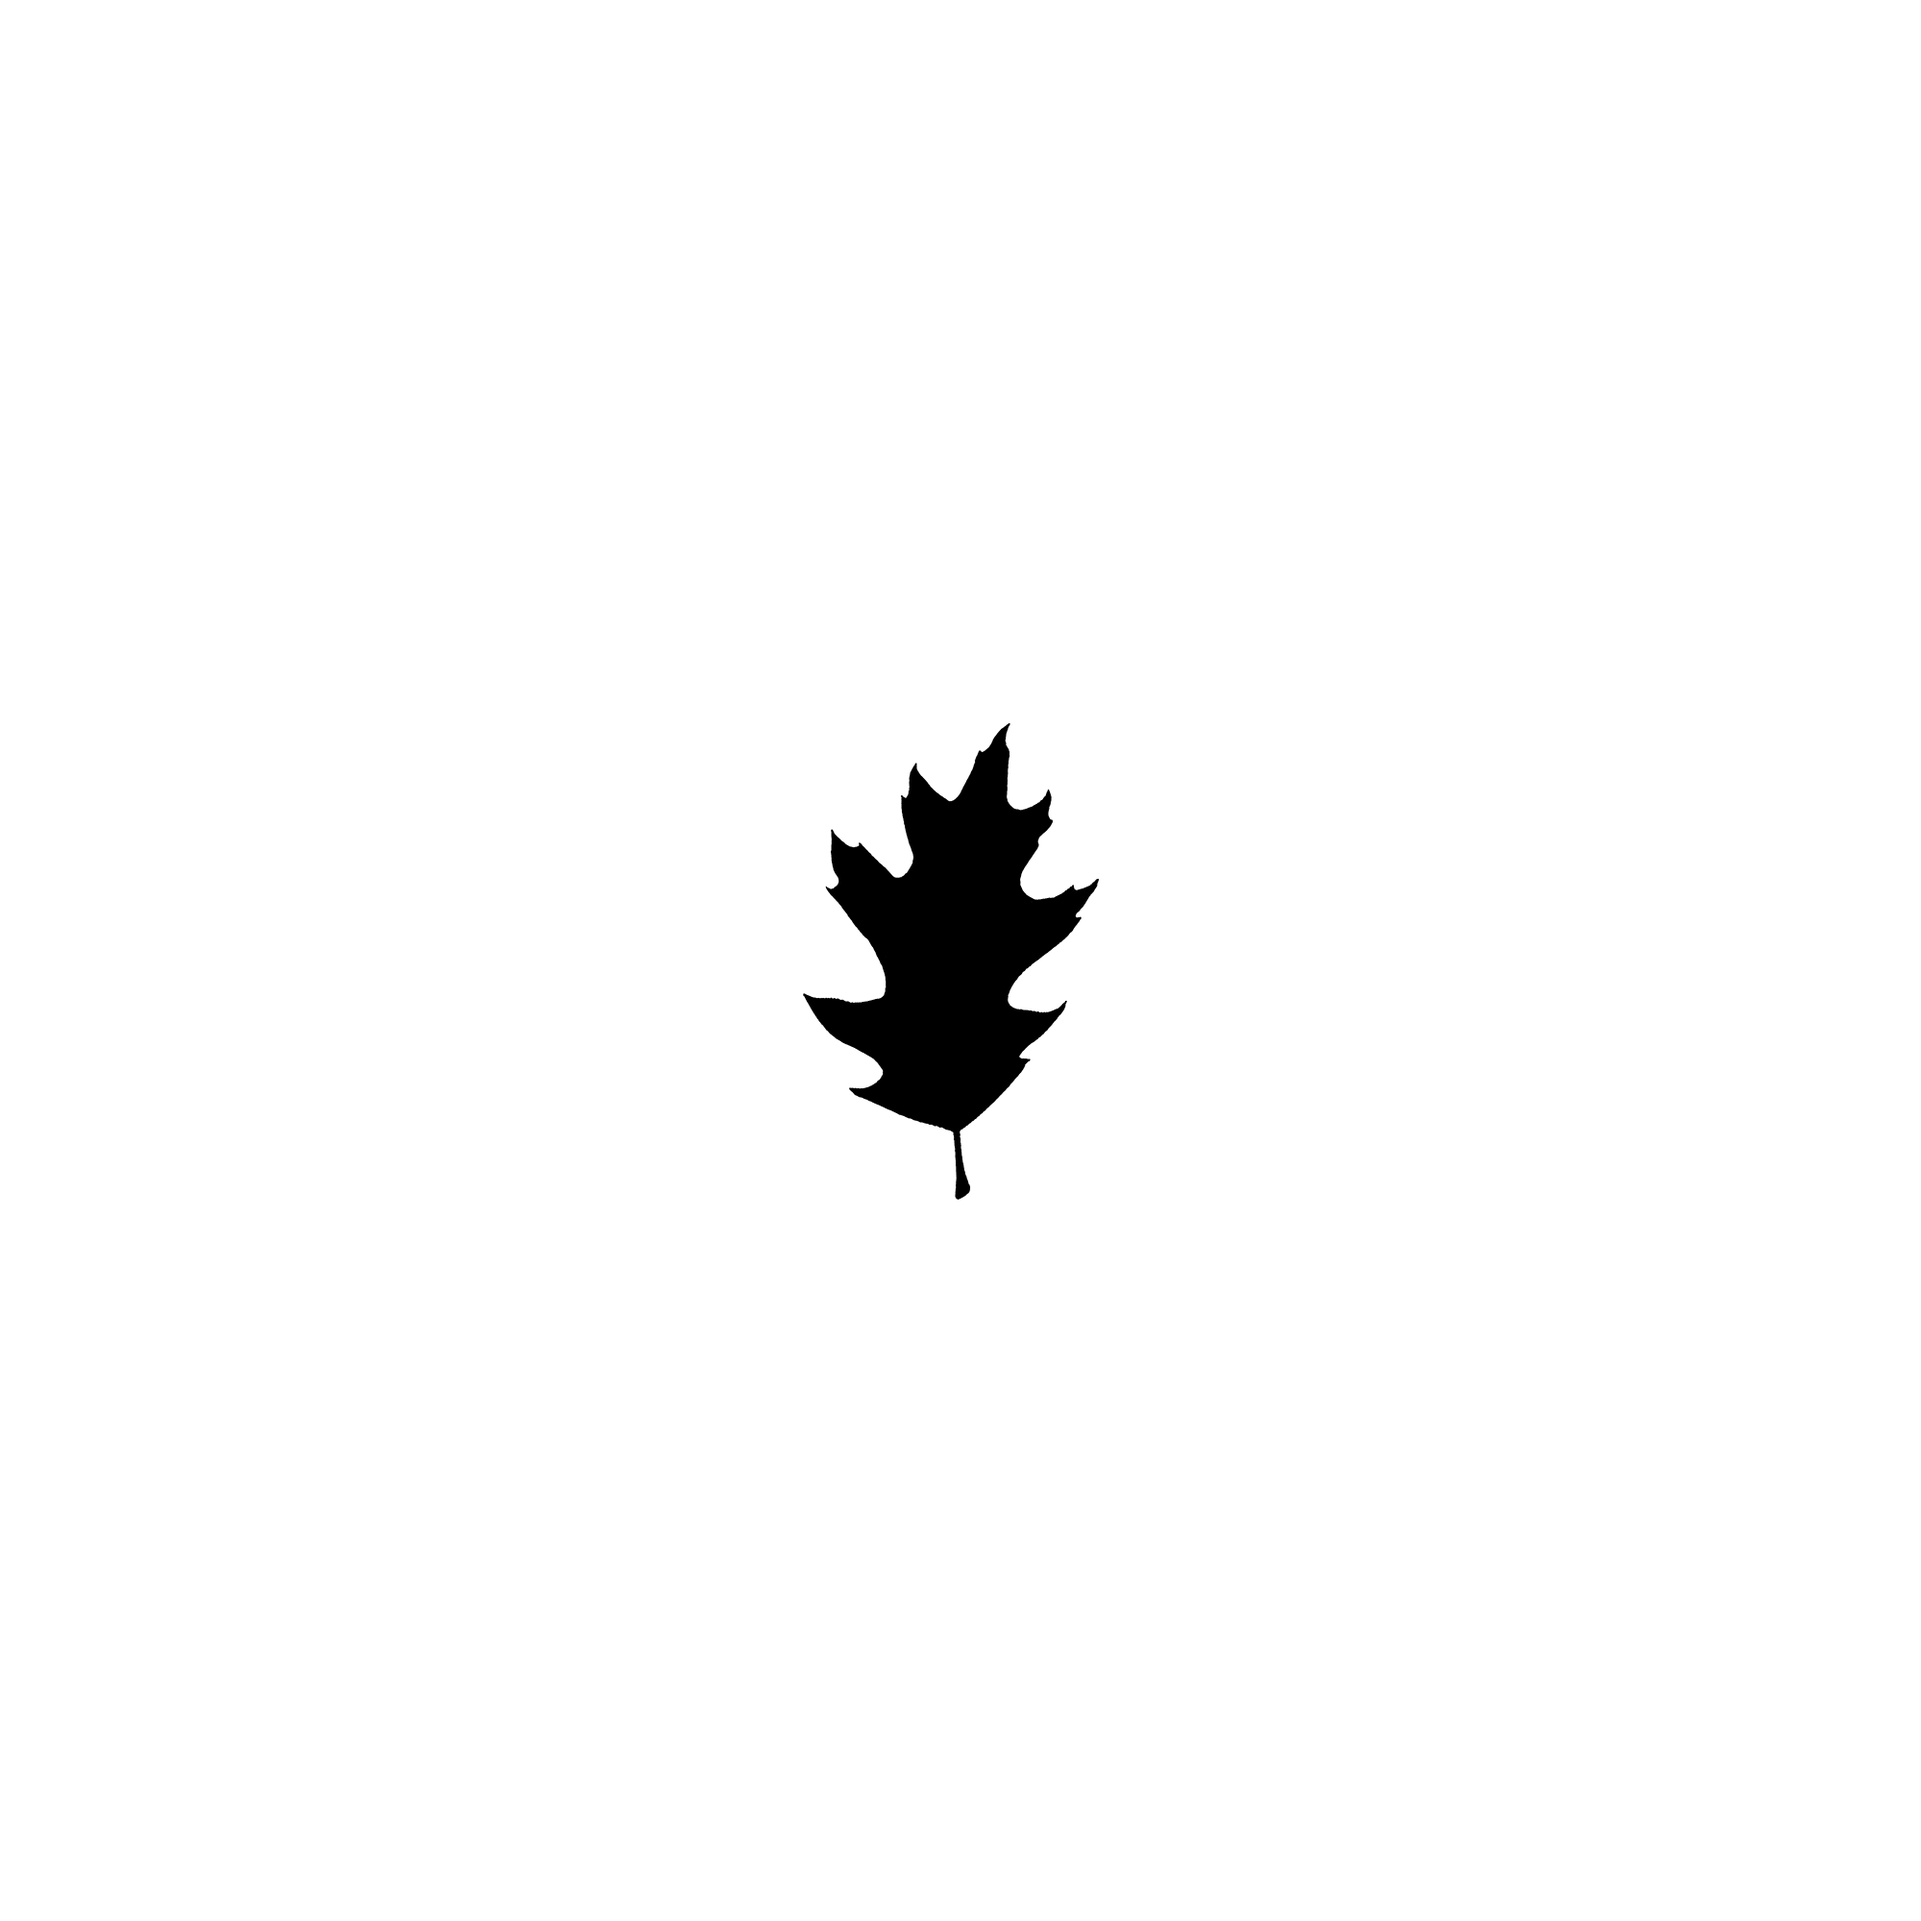
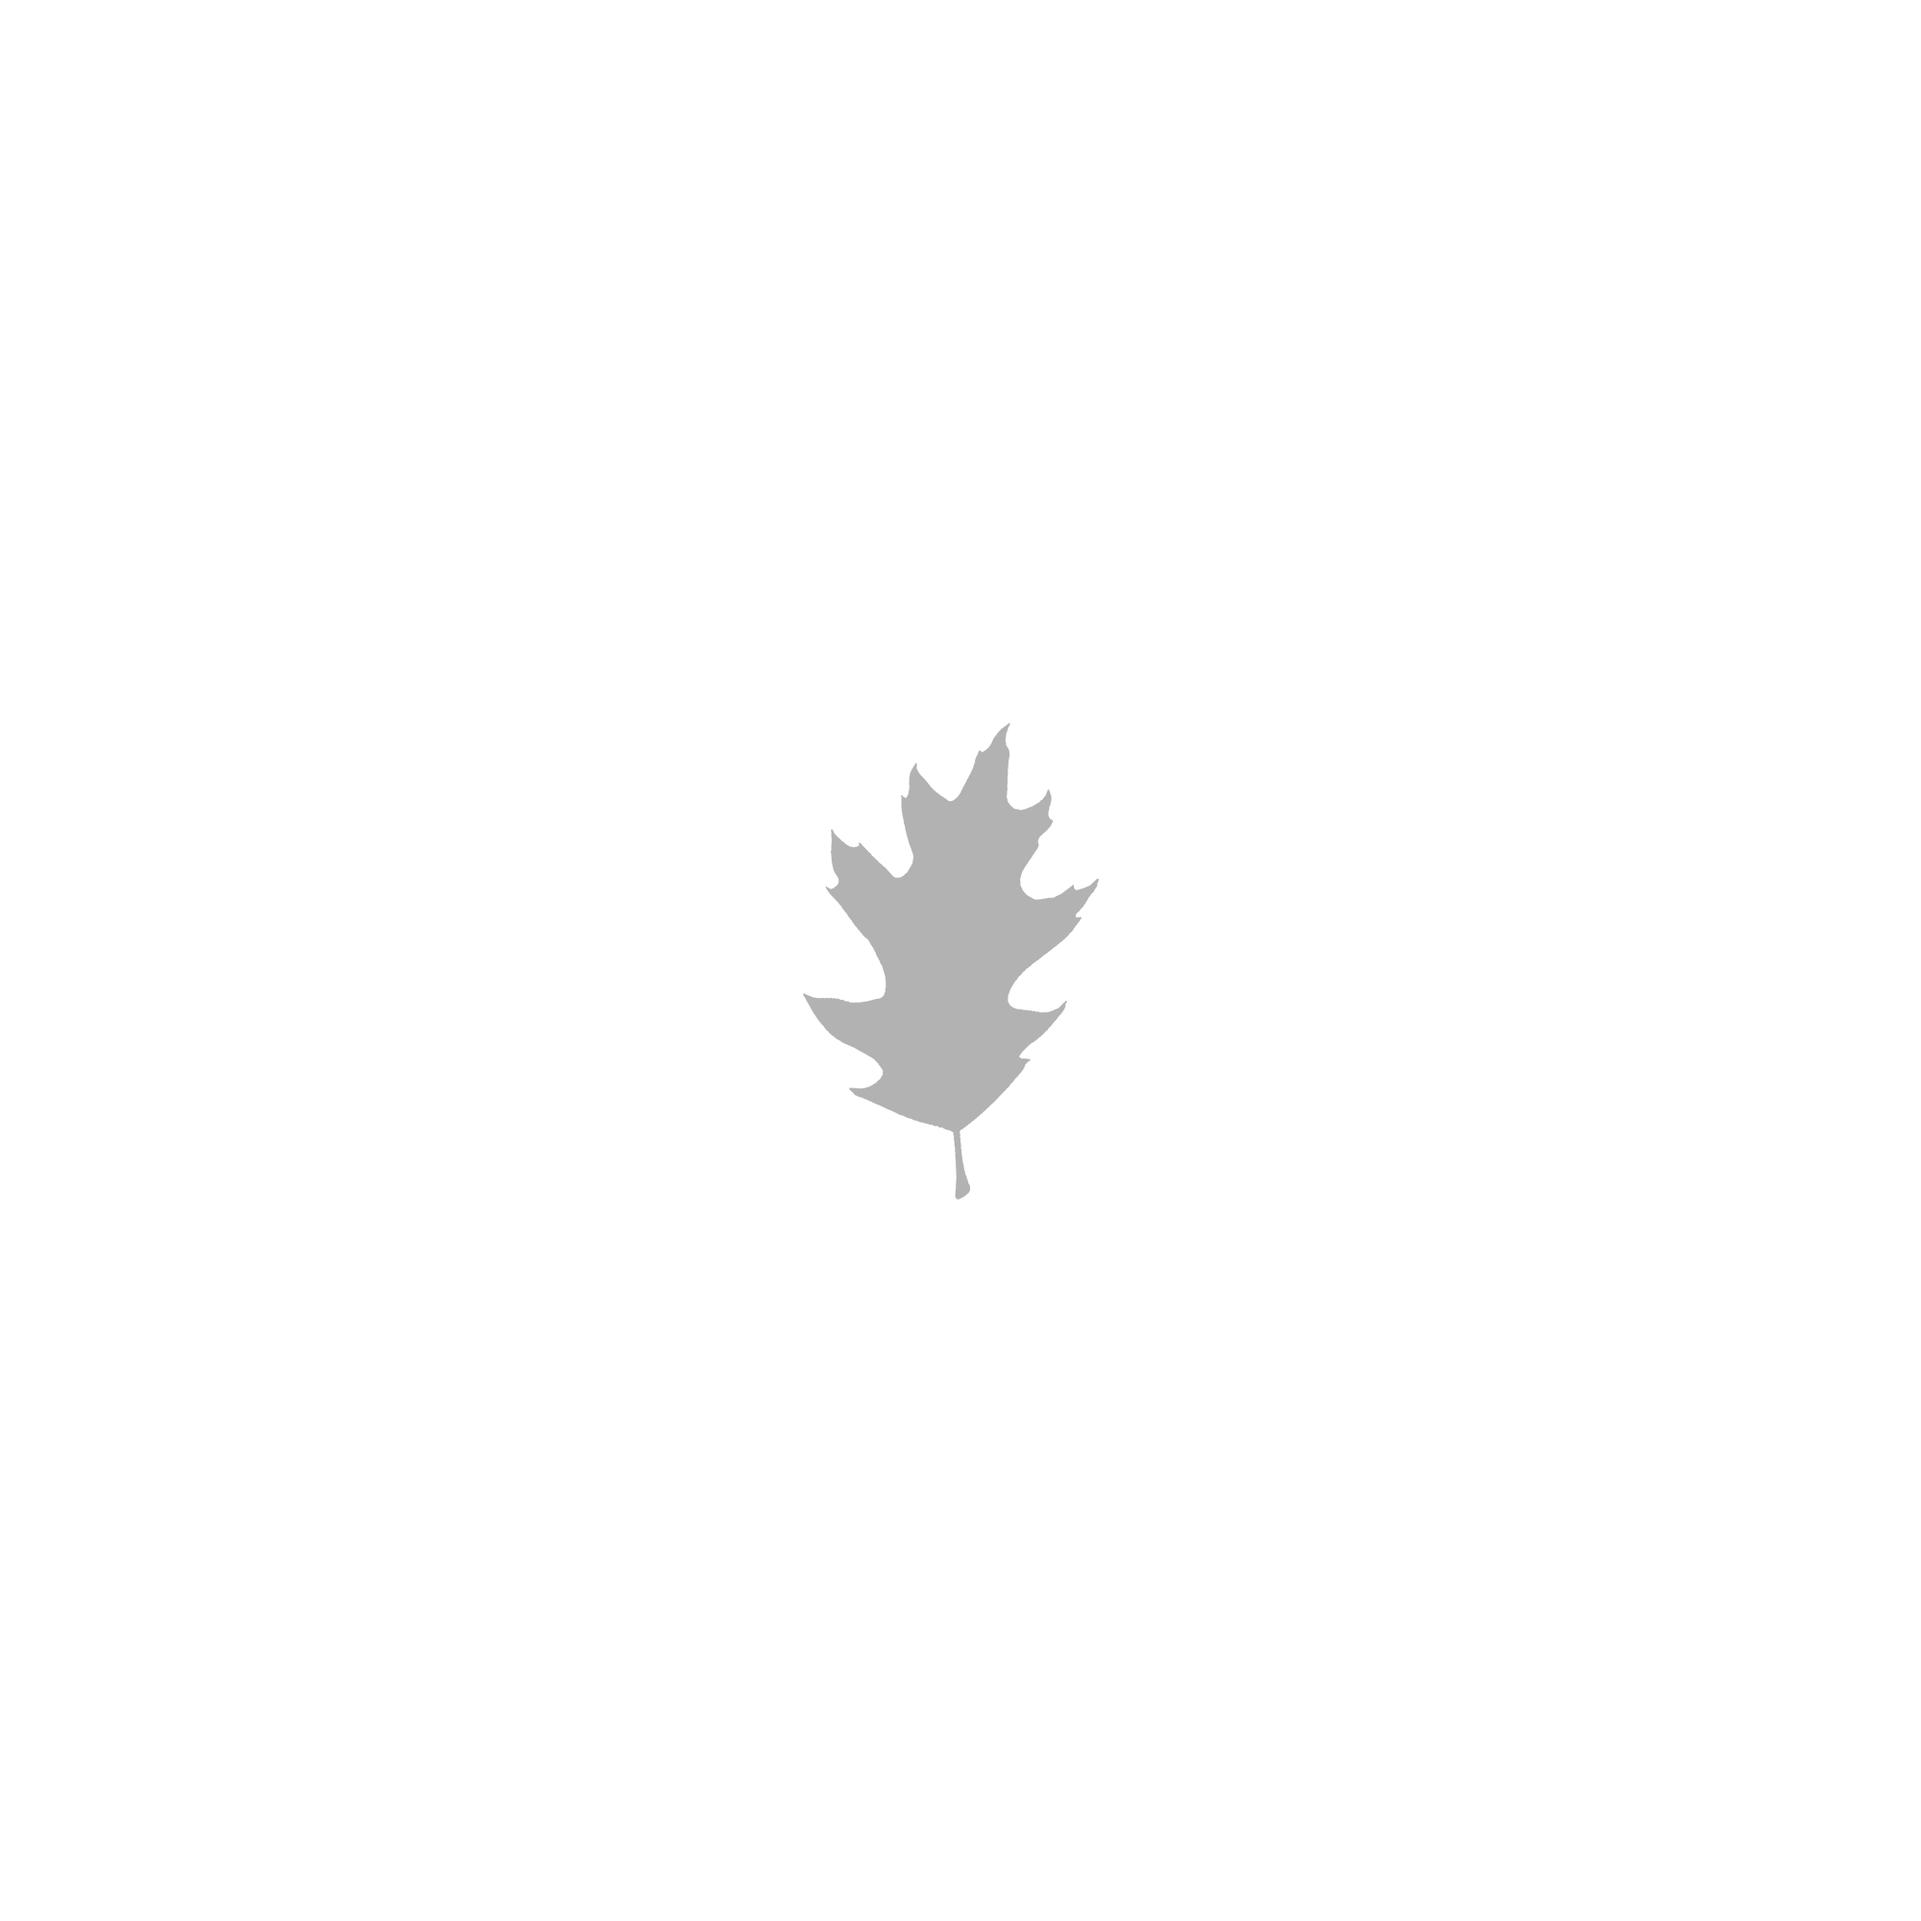
Optimise

Changed region(s): [[0.403, 0.372, 0.589, 0.62]]

diff --git a/rotationscape.js b/rotationscape.js
@@ -75,9 +75,6 @@ function dimensionCalc() {
   }
 }
 
-
-
-
 function mouseReleased() {
   drawLayer.stroke(0, 0, 0, 0);
   drawLayer.fill(0, 0, 0, 0);
@@ -94,47 +91,40 @@ function touchMoved() {
   } else if (drawState === 2) {
     wetDrawing(winMouseX, winMouseY);
   }
-
-if (sliderTouch === 1){
-   if (mouseX > (4 * hmax) && mouseX < (12 * hmax) && mouseY > (4 * hmax) && mouseY < height/2 - (4 * hmax)) {
-     makeSlider();
-     rotateLeaf(mouseX, mouseY);
-   }
-
-   if (mouseX > (4 * hmax) && mouseX < (13 * hmax) && mouseY > (height/2)+(4 * hmax) && mouseY < height - (4 * hmax)) {
-     makeScaler();
-     scalar = mouseY/height;
-
-     leafLayer.push();
-     leafLayer.clear();
-     leafLayer.imageMode(CENTER);
-     leafLayer.translate(width / 2, height / 2);
-       leafLayer.rotate(rot);
-     leafLayer.translate(0, -height / 6);
-     leafLayer.tint(255, 25);
-     leafLayer.image(leaf[leafSelector], 0, 0, (shortEdge / 0.5) * scalar, (shortEdge / .5) * scalar);
-     leafLayer.pop();
-     strokeLayer.push();
-     strokeLayer.clear();
-     strokeLayer.imageMode(CENTER);
-     strokeLayer.translate(width / 2, height / 2);
+  if (sliderTouch === 1) {
+    if (mouseX > (4 * hmax) && mouseX < (12 * hmax) && mouseY > (4 * hmax) && mouseY < height / 2 - (4 * hmax)) {
+      makeSlider();
+      rotateLeaf(mouseX, mouseY);
+    }
+    if (mouseX > (4 * hmax) && mouseX < (13 * hmax) && mouseY > (height / 2) + (4 * hmax) && mouseY < height - (4 * hmax)) {
+      makeScaler();
+      scalar = mouseY / height;
+      leafLayer.push();
+      leafLayer.clear();
+      leafLayer.imageMode(CENTER);
+      leafLayer.translate(width / 2, height / 2);
+      leafLayer.rotate(rot);
+      leafLayer.translate(0, -height / 6);
+      leafLayer.image(leaf[leafSelector], 0, 0, (shortEdge / 0.5) * scalar, (shortEdge / .5) * scalar);
+      leafLayer.pop();
+      strokeLayer.push();
+      strokeLayer.clear();
+      strokeLayer.imageMode(CENTER);
+      strokeLayer.translate(width / 2, height / 2);
       strokeLayer.rotate(rot);
-         strokeLayer.translate(0, -height / 6);
-     strokeLayer.image(leafFill[leafSelector], 0, 0, (shortEdge / .5) * scalar, (shortEdge / .5) * scalar);
-     strokeLayer.pop();
-     //rotateLeaf(mouseX, mouseY);
-   }
- }
-
-
+      strokeLayer.translate(0, -height / 6);
+      strokeLayer.image(leafFill[leafSelector], 0, 0, (shortEdge / .5) * scalar, (shortEdge / .5) * scalar);
+      strokeLayer.pop();
+      //rotateLeaf(mouseX, mouseY);
+    }
+  }
   return false;
 }
 
 function rotateLeaf(_x, _y) {
   // rotEnd = atan2(_x - height / 2, _y - width / 2);
   // rot = rot + (rotEnd - rotStart);
-  rot = (_y/height)*6*PI;
-  console.log(rot);
+  rot = (_y / height) * 6 * PI;
   //rotStart = rotEnd;
   leafLayer.push();
   leafLayer.clear();
@@ -142,9 +132,9 @@ function rotateLeaf(_x, _y) {
   leafLayer.translate(width / 2, height / 2);
   leafLayer.rotate(rot);
   leafLayer.translate(0, -height / 6);
-  leafLayer.tint(255, 25);
   leafLayer.image(leaf[leafSelector], 0, 0, (shortEdge / 0.5) * scalar, (shortEdge / .5) * scalar);
   leafLayer.pop();
+  
   strokeLayer.push();
   strokeLayer.clear();
   strokeLayer.imageMode(CENTER);
@@ -185,8 +175,6 @@ function wetDrawing(_x, _y) {
 }
 
 function draw() {
-
-
   if (introState === 3) {
     if (interrupt) {
       image(bg, 0, 0, width, height);

diff --git a/ui.js b/ui.js
@@ -128,7 +128,7 @@ function changeBrush(brushSel) {
   rot = 1;
 
   brushSelected = brushSel-1;
-  console.log(brushSelected);
+
  selColour.remove();
   selColour = createImg('assets/colSelected.png');
   selColour.position((21.5 + ((brushSel-1) * 6)) * vMax, height - (16 * vMax));
